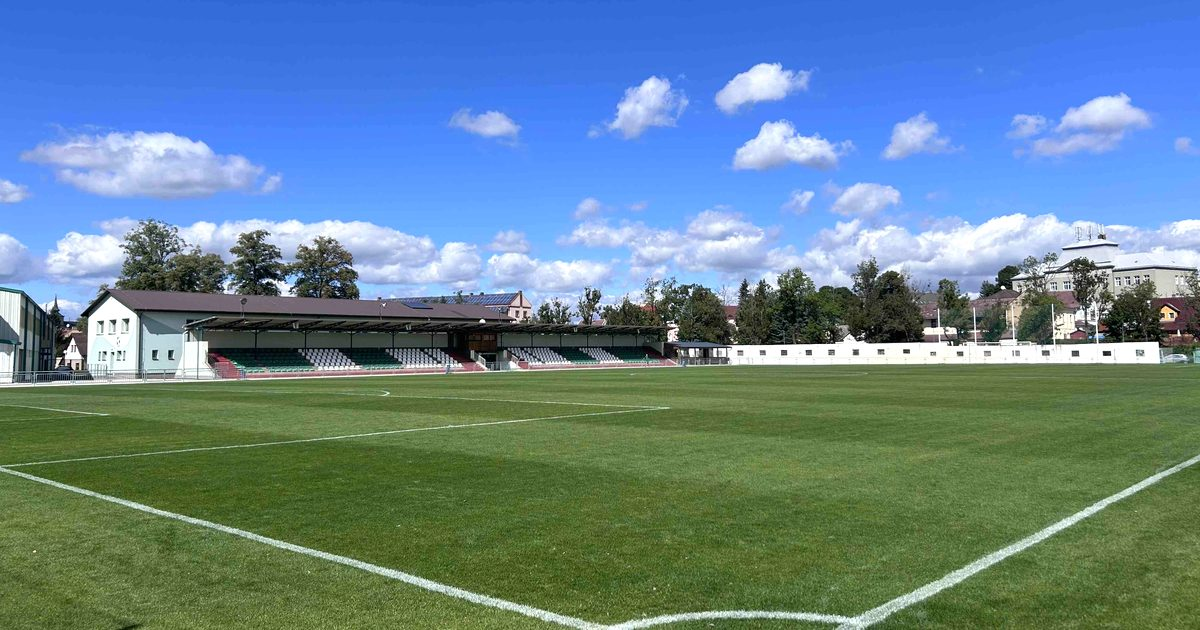
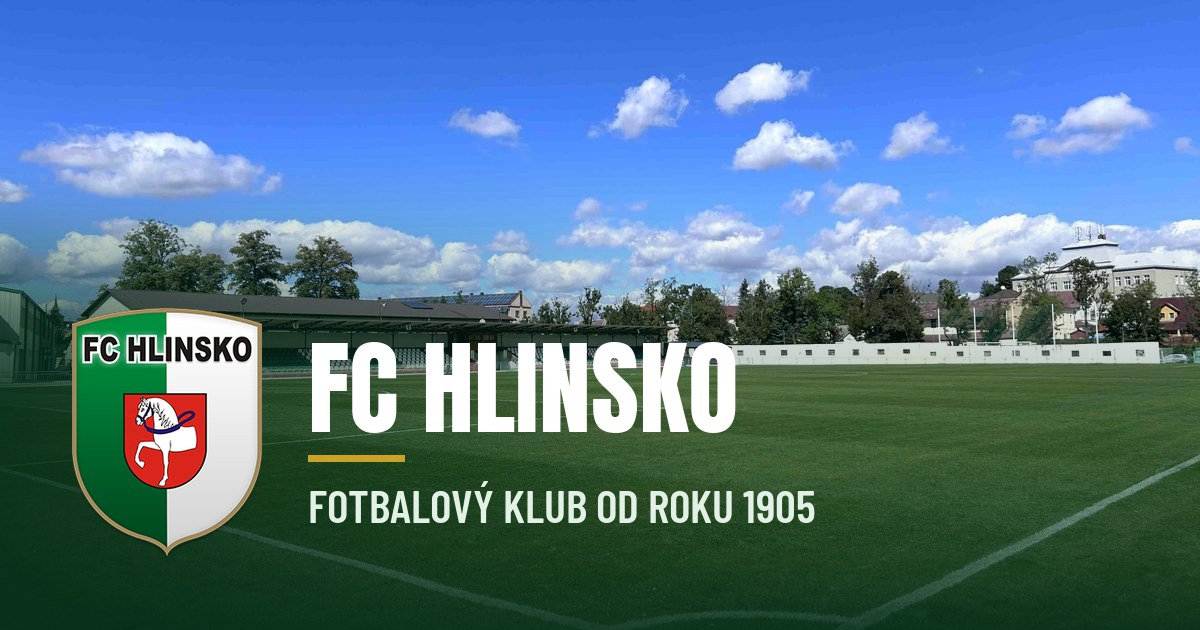
++

diff --git a/tymy.html b/tymy.html
@@ -15,10 +15,10 @@
 <meta property="og:site_name" content="FC Hlinsko">
 <meta property="og:title" content="Týmy, od přípravek po divizi | FC Hlinsko">
 <meta property="og:description" content="Deset mužstev FC Hlinsko. Muži A v divizi, muži B, dorost U17 a U19, žáci U13 a U15, čtyři přípravky a fotbalová školička. Fotky mužstev a odkazy na tabulky.">
-<meta property="og:image" content="images/og-hero.jpg">
+<meta property="og:image" content="https://fchlinsko.cz/images/og-hero.jpg">
 <meta property="og:image:width" content="1200">
 <meta property="og:image:height" content="630">
-<meta property="og:image:alt" content="Hřiště FC Hlinsko v areálu Olšinky">
+<meta property="og:image:alt" content="Znak FC Hlinsko a nápis Fotbalový klub od roku 1905 na fotce hřiště v areálu Olšinky">
 <meta name="twitter:card" content="summary_large_image">
 <link rel="preconnect" href="https://fonts.googleapis.com">
 <link rel="preconnect" href="https://fonts.gstatic.com" crossorigin>

diff --git a/nabor.html b/nabor.html
@@ -15,10 +15,10 @@
 <meta property="og:site_name" content="FC Hlinsko">
 <meta property="og:title" content="Nábor dětí a fotbalová školička | FC Hlinsko">
 <meta property="og:description" content="Nábor do FC Hlinsko je otevřený celý rok. Bereme holky i kluky od pěti let. První půlrok je zdarma a vybavení dostanete od klubu. Přihlaste dítě online.">
-<meta property="og:image" content="images/og-hero.jpg">
+<meta property="og:image" content="https://fchlinsko.cz/images/og-hero.jpg">
 <meta property="og:image:width" content="1200">
 <meta property="og:image:height" content="630">
-<meta property="og:image:alt" content="Hřiště FC Hlinsko v areálu Olšinky">
+<meta property="og:image:alt" content="Znak FC Hlinsko a nápis Fotbalový klub od roku 1905 na fotce hřiště v areálu Olšinky">
 <meta name="twitter:card" content="summary_large_image">
 <link rel="preconnect" href="https://fonts.googleapis.com">
 <link rel="preconnect" href="https://fonts.gstatic.com" crossorigin>

diff --git a/ochrana-osobnich-udaju.html b/ochrana-osobnich-udaju.html
@@ -15,10 +15,10 @@
 <meta property="og:site_name" content="FC Hlinsko">
 <meta property="og:title" content="Ochrana osobních údajů | FC Hlinsko">
 <meta property="og:description" content="Informace o zpracování osobních údajů ve FC Hlinsko, z.s. Kdo je správce, jaké údaje zpracováváme, proč, jak dlouho a jaká máte práva.">
-<meta property="og:image" content="images/og-hero.jpg">
+<meta property="og:image" content="https://fchlinsko.cz/images/og-hero.jpg">
 <meta property="og:image:width" content="1200">
 <meta property="og:image:height" content="630">
-<meta property="og:image:alt" content="Hřiště FC Hlinsko v areálu Olšinky">
+<meta property="og:image:alt" content="Znak FC Hlinsko a nápis Fotbalový klub od roku 1905 na fotce hřiště v areálu Olšinky">
 <meta name="twitter:card" content="summary_large_image">
 <link rel="preconnect" href="https://fonts.googleapis.com">
 <link rel="preconnect" href="https://fonts.gstatic.com" crossorigin>

diff --git a/tym-muzi-a.html b/tym-muzi-a.html
@@ -15,10 +15,10 @@
 <meta property="og:site_name" content="FC Hlinsko">
 <meta property="og:title" content="Muži A | FC Hlinsko">
 <meta property="og:description" content="Muži A FC Hlinsko. Divize, skupina C. Vlajková loď klubu, celostátní soutěž pod třetí ligou. Domácí zápasy hraje na hlavní ploše areálu Olšinky.">
-<meta property="og:image" content="images/og-hero.jpg">
+<meta property="og:image" content="https://fchlinsko.cz/images/og-hero.jpg">
 <meta property="og:image:width" content="1200">
 <meta property="og:image:height" content="630">
-<meta property="og:image:alt" content="Hřiště FC Hlinsko v areálu Olšinky">
+<meta property="og:image:alt" content="Znak FC Hlinsko a nápis Fotbalový klub od roku 1905 na fotce hřiště v areálu Olšinky">
 <meta name="twitter:card" content="summary_large_image">
 <link rel="preconnect" href="https://fonts.googleapis.com">
 <link rel="preconnect" href="https://fonts.gstatic.com" crossorigin>

diff --git a/reklamacni-rad.html b/reklamacni-rad.html
@@ -15,10 +15,10 @@
 <meta property="og:site_name" content="FC Hlinsko">
 <meta property="og:title" content="Reklamační řád | FC Hlinsko">
 <meta property="og:description" content="Reklamační řád FC Hlinsko, z.s. Lhůty, postup reklamace klubového oblečení a doplňků, práva z vadného plnění a vyřízení reklamace.">
-<meta property="og:image" content="images/og-hero.jpg">
+<meta property="og:image" content="https://fchlinsko.cz/images/og-hero.jpg">
 <meta property="og:image:width" content="1200">
 <meta property="og:image:height" content="630">
-<meta property="og:image:alt" content="Hřiště FC Hlinsko v areálu Olšinky">
+<meta property="og:image:alt" content="Znak FC Hlinsko a nápis Fotbalový klub od roku 1905 na fotce hřiště v areálu Olšinky">
 <meta name="twitter:card" content="summary_large_image">
 <link rel="preconnect" href="https://fonts.googleapis.com">
 <link rel="preconnect" href="https://fonts.gstatic.com" crossorigin>

diff --git a/obchodni-podminky.html b/obchodni-podminky.html
@@ -15,10 +15,10 @@
 <meta property="og:site_name" content="FC Hlinsko">
 <meta property="og:title" content="Obchodní podmínky | FC Hlinsko">
 <meta property="og:description" content="Obchodní podmínky FC Hlinsko, z.s. pro prodej klubového oblečení a doplňků. Objednávka, cena, platba, dodání a odstoupení od smlouvy.">
-<meta property="og:image" content="images/og-hero.jpg">
+<meta property="og:image" content="https://fchlinsko.cz/images/og-hero.jpg">
 <meta property="og:image:width" content="1200">
 <meta property="og:image:height" content="630">
-<meta property="og:image:alt" content="Hřiště FC Hlinsko v areálu Olšinky">
+<meta property="og:image:alt" content="Znak FC Hlinsko a nápis Fotbalový klub od roku 1905 na fotce hřiště v areálu Olšinky">
 <meta name="twitter:card" content="summary_large_image">
 <link rel="preconnect" href="https://fonts.googleapis.com">
 <link rel="preconnect" href="https://fonts.gstatic.com" crossorigin>

diff --git a/kalendar.html b/kalendar.html
@@ -15,10 +15,10 @@
 <meta property="og:site_name" content="FC Hlinsko">
 <meta property="og:title" content="Kalendář tréninků a zápasů | FC Hlinsko">
 <meta property="og:description" content="Kalendář FC Hlinsko: tréninky a zápasy všech mužstev od přípravek po muže A na jednom místě, s filtrem podle mužstva.">
-<meta property="og:image" content="images/og-hero.jpg">
+<meta property="og:image" content="https://fchlinsko.cz/images/og-hero.jpg">
 <meta property="og:image:width" content="1200">
 <meta property="og:image:height" content="630">
-<meta property="og:image:alt" content="Hřiště FC Hlinsko v areálu Olšinky">
+<meta property="og:image:alt" content="Znak FC Hlinsko a nápis Fotbalový klub od roku 1905 na fotce hřiště v areálu Olšinky">
 <meta name="twitter:card" content="summary_large_image">
 <link rel="preconnect" href="https://fonts.googleapis.com">
 <link rel="preconnect" href="https://fonts.gstatic.com" crossorigin>

diff --git a/klub.html b/klub.html
@@ -15,10 +15,10 @@
 <meta property="og:site_name" content="FC Hlinsko">
 <meta property="og:title" content="Klub, historie a stadion | FC Hlinsko">
 <meta property="og:description" content="FC Hlinsko od roku 1905. Základní údaje o klubu, vedení, historické úspěchy, osobnosti a stadion Olšinky s kapacitou 4 000 míst.">
-<meta property="og:image" content="images/og-hero.jpg">
+<meta property="og:image" content="https://fchlinsko.cz/images/og-hero.jpg">
 <meta property="og:image:width" content="1200">
 <meta property="og:image:height" content="630">
-<meta property="og:image:alt" content="Hřiště FC Hlinsko v areálu Olšinky">
+<meta property="og:image:alt" content="Znak FC Hlinsko a nápis Fotbalový klub od roku 1905 na fotce hřiště v areálu Olšinky">
 <meta name="twitter:card" content="summary_large_image">
 <link rel="preconnect" href="https://fonts.googleapis.com">
 <link rel="preconnect" href="https://fonts.gstatic.com" crossorigin>

diff --git a/partneri.html b/partneri.html
@@ -15,10 +15,10 @@
 <meta property="og:site_name" content="FC Hlinsko">
 <meta property="og:title" content="Partneři klubu | FC Hlinsko">
 <meta property="og:description" content="Firmy a instituce, které podporují FC Hlinsko. Nabídka partnerství, reklama na stadionu Olšinky a podpora mládežnického fotbalu v Hlinsku.">
-<meta property="og:image" content="images/og-hero.jpg">
+<meta property="og:image" content="https://fchlinsko.cz/images/og-hero.jpg">
 <meta property="og:image:width" content="1200">
 <meta property="og:image:height" content="630">
-<meta property="og:image:alt" content="Hřiště FC Hlinsko v areálu Olšinky">
+<meta property="og:image:alt" content="Znak FC Hlinsko a nápis Fotbalový klub od roku 1905 na fotce hřiště v areálu Olšinky">
 <meta name="twitter:card" content="summary_large_image">
 <link rel="preconnect" href="https://fonts.googleapis.com">
 <link rel="preconnect" href="https://fonts.gstatic.com" crossorigin>

diff --git a/cookies.html b/cookies.html
@@ -15,10 +15,10 @@
 <meta property="og:site_name" content="FC Hlinsko">
 <meta property="og:title" content="Cookies | FC Hlinsko">
 <meta property="og:description" content="Zásady používání cookies na webu FC Hlinsko. Web nepoužívá sledovací ani reklamní cookies, obsah třetích stran se načítá jen se souhlasem.">
-<meta property="og:image" content="images/og-hero.jpg">
+<meta property="og:image" content="https://fchlinsko.cz/images/og-hero.jpg">
 <meta property="og:image:width" content="1200">
 <meta property="og:image:height" content="630">
-<meta property="og:image:alt" content="Hřiště FC Hlinsko v areálu Olšinky">
+<meta property="og:image:alt" content="Znak FC Hlinsko a nápis Fotbalový klub od roku 1905 na fotce hřiště v areálu Olšinky">
 <meta name="twitter:card" content="summary_large_image">
 <link rel="preconnect" href="https://fonts.googleapis.com">
 <link rel="preconnect" href="https://fonts.gstatic.com" crossorigin>

diff --git a/zapasy.html b/zapasy.html
@@ -15,10 +15,10 @@
 <meta property="og:site_name" content="FC Hlinsko">
 <meta property="og:title" content="Zápasy a tabulky | FC Hlinsko">
 <meta property="og:description" content="Rozpis zápasů FC Hlinsko, mistrovská utkání, MOL Cup i přípravné zápasy. Odkazy na aktuální tabulky všech mužstev na Fotbal.cz.">
-<meta property="og:image" content="images/og-hero.jpg">
+<meta property="og:image" content="https://fchlinsko.cz/images/og-hero.jpg">
 <meta property="og:image:width" content="1200">
 <meta property="og:image:height" content="630">
-<meta property="og:image:alt" content="Hřiště FC Hlinsko v areálu Olšinky">
+<meta property="og:image:alt" content="Znak FC Hlinsko a nápis Fotbalový klub od roku 1905 na fotce hřiště v areálu Olšinky">
 <meta name="twitter:card" content="summary_large_image">
 <link rel="preconnect" href="https://fonts.googleapis.com">
 <link rel="preconnect" href="https://fonts.gstatic.com" crossorigin>

diff --git a/kontakt.html b/kontakt.html
@@ -15,10 +15,10 @@
 <meta property="og:site_name" content="FC Hlinsko">
 <meta property="og:title" content="Kontakt | FC Hlinsko">
 <meta property="og:description" content="Kontakt na FC Hlinsko. Sekretář Ivan Kembický, telefon 774 424 648, e-mail info@fchlinsko.cz, adresa Olšinky 1063, 539 01 Hlinsko.">
-<meta property="og:image" content="images/og-hero.jpg">
+<meta property="og:image" content="https://fchlinsko.cz/images/og-hero.jpg">
 <meta property="og:image:width" content="1200">
 <meta property="og:image:height" content="630">
-<meta property="og:image:alt" content="Hřiště FC Hlinsko v areálu Olšinky">
+<meta property="og:image:alt" content="Znak FC Hlinsko a nápis Fotbalový klub od roku 1905 na fotce hřiště v areálu Olšinky">
 <meta name="twitter:card" content="summary_large_image">
 <link rel="preconnect" href="https://fonts.googleapis.com">
 <link rel="preconnect" href="https://fonts.gstatic.com" crossorigin>
